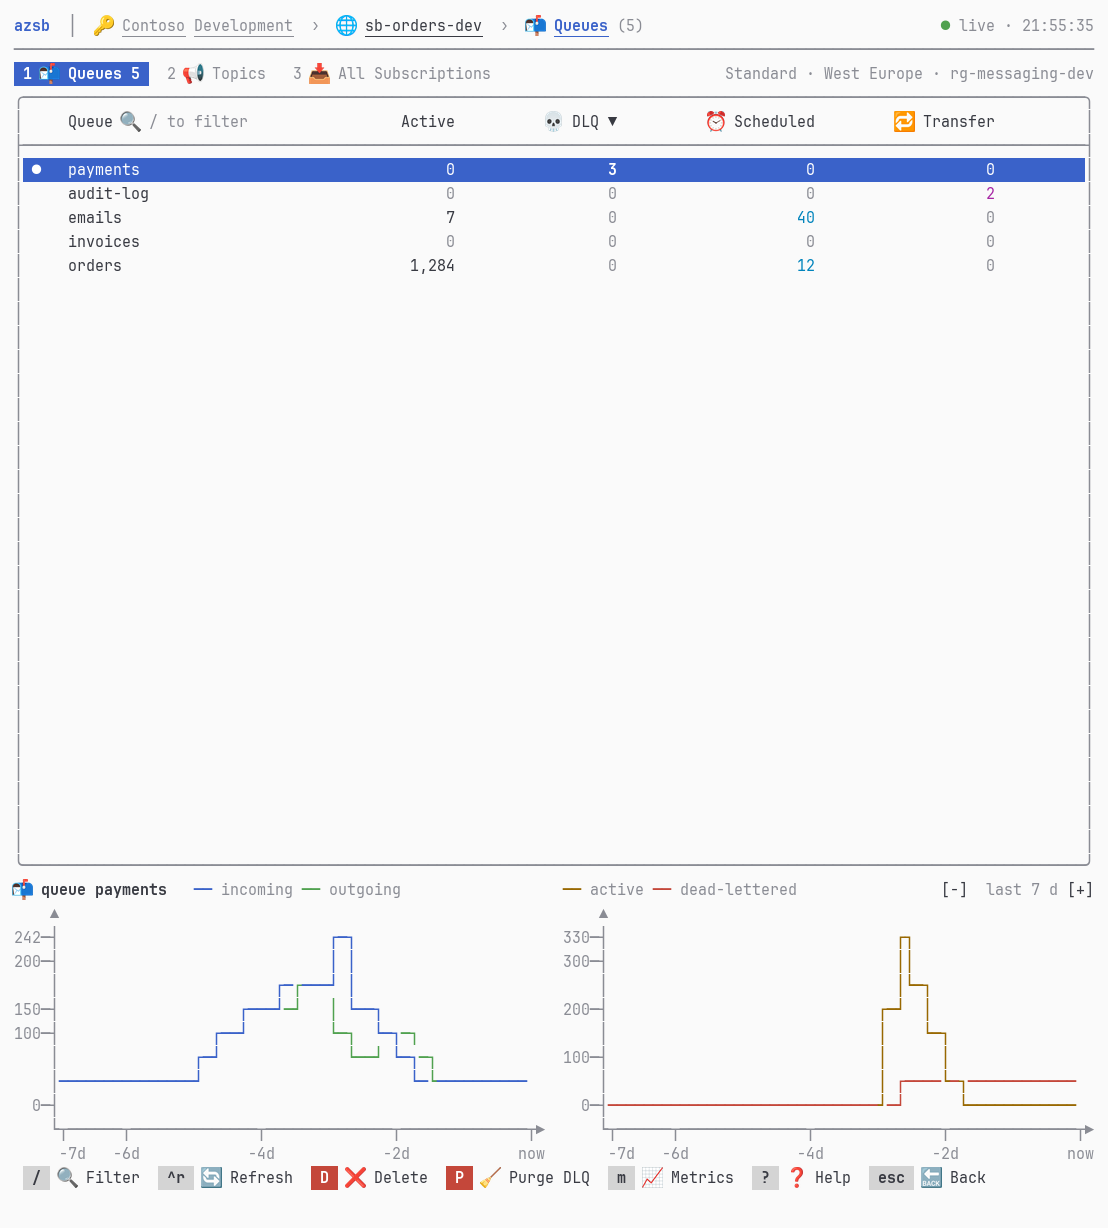
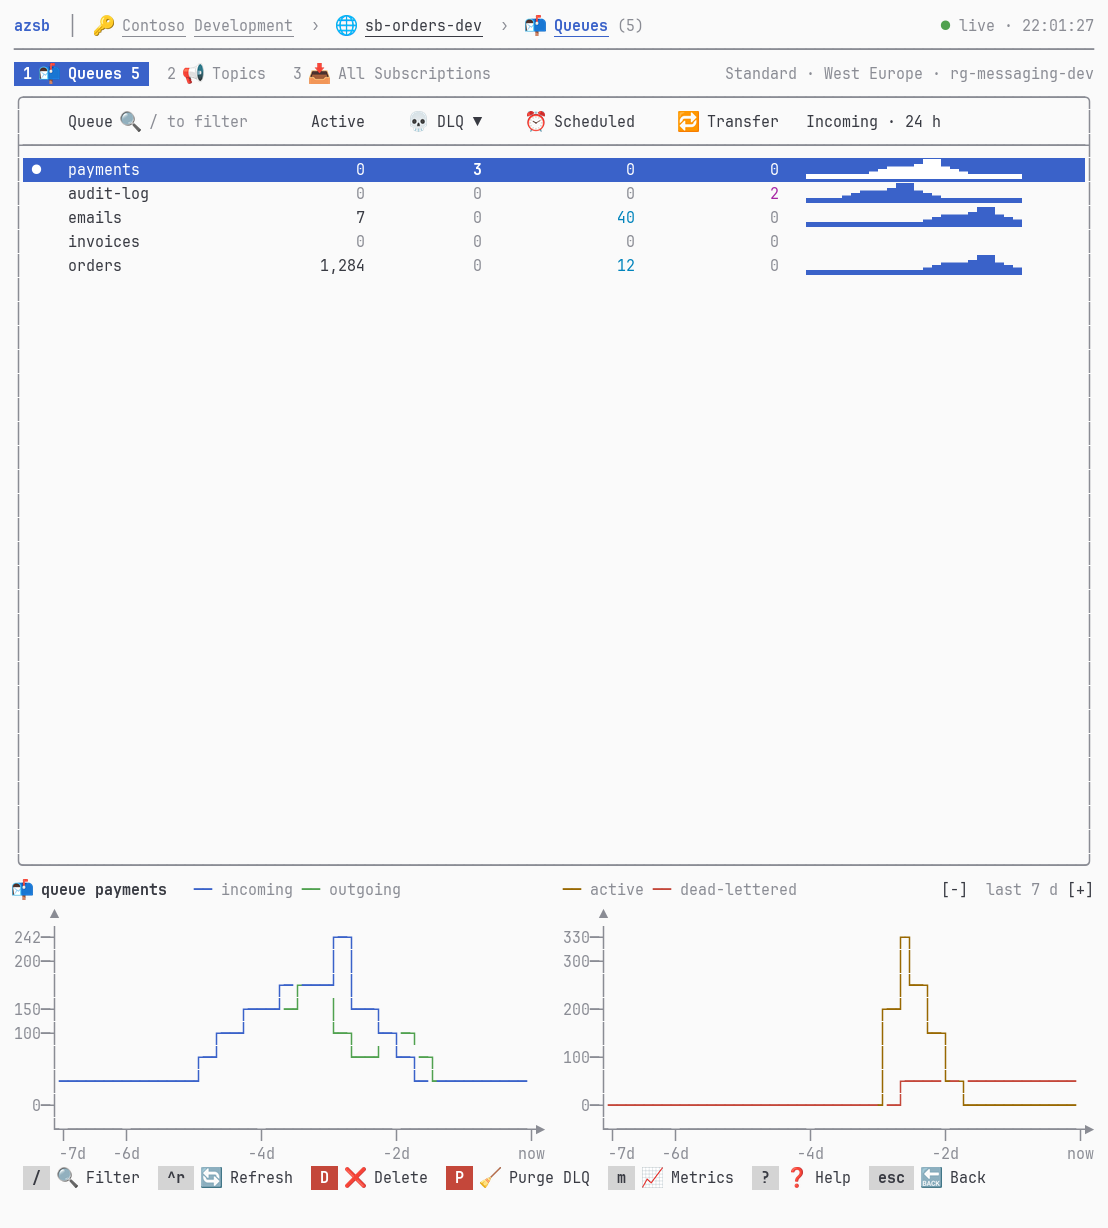
Incoming · 24 h sparkline column on the section lists
Part of #129. IMetricsService.GetIncomingByEntityAsync loads incoming
messages of every queue and topic in one Azure Monitor request
(IncomingMessages, EntityName eq '*', hourly, top 1000), cached like the
charts. IncomingTraffic reloads it every 5 minutes, separate from the
15 s counts, and the queue, topic and all-subscriptions lists draw a
Sparkline per row (subscriptions show their topic's). No column for the
emulator or under 110 columns.

Claude-Session: https://claude.ai/code/session_014zNgM4zMsC37xcnYsSUVjN

diff --git a/src/ServiceBusConsole.AzureServiceBus/MonitorMetrics.cs b/src/ServiceBusConsole.AzureServiceBus/MonitorMetrics.cs
@@ -24,6 +24,36 @@ internal static class MonitorMetrics
     public static string? Filter(MetricsScope scope) =>
         scope.Match<string?>(_ => null, entity => $"EntityName eq '{entity.Name}'");
 
+    /// <summary>Most entities a namespace lists traffic for; Azure Monitor returns 10 series unless asked for more.</summary>
+    public const int MaxEntities = 1000;
+
+    /// <summary>Incoming totals split by entity: <c>EntityName eq '*'</c> asks for one series per queue and topic.</summary>
+    public static ArmResourceGetMonitorMetricsOptions IncomingByEntity(MetricsWindow window) => new()
+    {
+        Timespan = $"{window.From.UtcDateTime:O}/{window.To.UtcDateTime:O}",
+        Interval = window.Interval,
+        Metricnames = Incoming,
+        Aggregation = "Total",
+        Filter = "EntityName eq '*'",
+        Top = MaxEntities,
+    };
+
+    /// <summary>Each series is one entity, named by its <c>EntityName</c> dimension; every interval of the window, 0 without data.</summary>
+    public static EntityTraffic ToEntityTraffic(MetricsWindow window, IEnumerable<MonitorMetric> metrics) => new()
+    {
+        Window = window,
+        Incoming = metrics
+            .Where(m => string.Equals(m.Name.Value, Incoming, StringComparison.OrdinalIgnoreCase))
+            .SelectMany(m => m.Timeseries)
+            .SelectMany(series => EntityOf(series) is { Length: > 0 } entity ? [(Entity: entity, Series: series)] : Array.Empty<(string Entity, MonitorTimeSeriesElement Series)>())
+            .GroupBy(e => e.Entity, StringComparer.OrdinalIgnoreCase)
+            .ToDictionary(g => g.Key, g => (IReadOnlyList<MetricPoint>)PointsOf(g.SelectMany(e => e.Series.Data), window, v => v.Total),
+                StringComparer.OrdinalIgnoreCase),
+    };
+
+    private static string? EntityOf(MonitorTimeSeriesElement series) =>
+        series.Metadatavalues.FirstOrDefault(v => string.Equals(v.Name?.Value, "EntityName", StringComparison.OrdinalIgnoreCase))?.Value;
+
     public static MessageMetrics ToMessageMetrics(MetricsWindow window, IEnumerable<MonitorMetric> metrics)
     {
         var byName = metrics.ToLookup(m => m.Name.Value, StringComparer.OrdinalIgnoreCase);
@@ -47,9 +77,12 @@ internal static class MonitorMetrics
     };
 
     // Every interval of the window, 0 where Azure reports nothing; several time series add up.
-    private static List<MetricPoint> Points(IEnumerable<MonitorMetric> metrics, MetricsWindow window, Func<MonitorMetricValue, double?> value)
+    private static List<MetricPoint> Points(IEnumerable<MonitorMetric> metrics, MetricsWindow window, Func<MonitorMetricValue, double?> value) =>
+        PointsOf(metrics.SelectMany(m => m.Timeseries).SelectMany(series => series.Data), window, value);
+
+    private static List<MetricPoint> PointsOf(IEnumerable<MonitorMetricValue> values, MetricsWindow window, Func<MonitorMetricValue, double?> value)
     {
-        var byInterval = metrics.SelectMany(m => m.Timeseries).SelectMany(series => series.Data).ToLookup(v => window.IntervalOf(v.TimeStamp));
+        var byInterval = values.ToLookup(v => window.IntervalOf(v.TimeStamp));
         return [.. window.IntervalStarts().Select(start => new MetricPoint(start, byInterval[start].Sum(v => value(v) ?? 0)))];
     }
 }

diff --git a/src/ServiceBusConsole/UI/IncomingTraffic.cs b/src/ServiceBusConsole/UI/IncomingTraffic.cs
@@ -1,0 +1,55 @@
+using Microsoft.Extensions.Logging;
+
+namespace ServiceBusConsole.UI;
+
+/// <summary>
+/// The last 24 hours of incoming messages per queue and topic, for a list page's sparkline column: cached first, then
+/// live, then reloaded every <see cref="LiveCountsOptions.TrafficInterval"/>. One Azure Monitor request per load,
+/// whatever the number of entities. Call from the page's dispatcher; <see cref="Changed"/> runs there too.
+/// </summary>
+public sealed class IncomingTraffic(IMetricsService metrics, LiveCountsOptions options, ILogger logger) : IDisposable
+{
+    public static readonly TimeSpan Span = TimeSpan.FromHours(24);
+    public static readonly TimeSpan Interval = TimeSpan.FromHours(1);
+
+    private readonly CancellationTokenSource _cts = new();
+
+    public EntityTraffic? Traffic { get; private set; }
+
+    /// <summary>Render; after each load.</summary>
+    public required Func<Task> Changed { get; init; }
+
+    public IReadOnlyList<MetricPoint> Of(string entity) => Traffic?.Of(entity) ?? [];
+
+    /// <summary>Loads, then keeps reloading until <see cref="Dispose"/>; a failed load keeps what was shown.</summary>
+    public async Task RunAsync()
+    {
+        var token = _cts.Token;
+        try
+        {
+            while (!token.IsCancellationRequested)
+            {
+                try
+                {
+                    await foreach (var traffic in metrics.GetIncomingByEntityAsync(MetricsWindow.Last(Span, Interval, DateTimeOffset.UtcNow), token))
+                    {
+                        Traffic = traffic;
+                        await Changed();
+                    }
+                }
+                catch (Exception ex) when (!token.IsCancellationRequested)
+                {
+                    logger.LogWarning(ex, "Loading incoming messages per entity failed; retrying");
+                }
+                await Task.Delay(options.TrafficInterval, token);
+            }
+        }
+        catch (OperationCanceledException) { }
+    }
+
+    public void Dispose()
+    {
+        _cts.Cancel();
+        _cts.Dispose();
+    }
+}

diff --git a/tests/ServiceBusConsole.AzureServiceBus.Tests/MonitorMetricsTests.cs b/tests/ServiceBusConsole.AzureServiceBus.Tests/MonitorMetricsTests.cs
@@ -69,4 +69,33 @@ public sealed class MonitorMetricsTests
                                  && q.Interval == TimeSpan.FromMinutes(15)
                                  && q.Filter == "EntityName eq 'orders'");
     }
+
+    [Test]
+    public void IncomingByEntity_AsksForEverySeriesOfEntityName_InOneQuery()
+    {
+        var query = MonitorMetrics.IncomingByEntity(Hour);
+
+        query.Metricnames.ShouldBe("IncomingMessages");
+        query.Aggregation.ShouldBe("Total");
+        query.Filter.ShouldBe("EntityName eq '*'");
+        query.Top.ShouldBe(MonitorMetrics.MaxEntities);
+        query.Interval.ShouldBe(TimeSpan.FromMinutes(15));
+    }
+
+    [Test]
+    public void ToEntityTraffic_KeysEachSeriesByItsEntityName_IgnoringCase()
+    {
+        MonitorTimeSeriesElement Series(string entity, params MonitorMetricValue[] values) => ArmMonitorModelFactory.MonitorTimeSeriesElement(
+            [ArmMonitorModelFactory.MonitorMetadataValue(ArmMonitorModelFactory.MonitorLocalizableString("entityname", "EntityName"), entity)], values);
+        var metric = ArmMonitorModelFactory.MonitorMetric(
+            id: "/metrics/IncomingMessages", metricType: "Microsoft.Insights/metrics", name: ArmMonitorModelFactory.MonitorLocalizableString("IncomingMessages", "IncomingMessages"),
+            displayDescription: "", errorCode: "Success", errorMessage: null, unit: MonitorMetricUnit.Count,
+            timeseries: [Series("orders", Value(0, total: 4), Value(30, total: 2)), Series("payments", Value(15, total: 7))]);
+
+        var traffic = MonitorMetrics.ToEntityTraffic(Hour, [metric]);
+
+        traffic.Of("Orders").Select(p => p.Value).ShouldBe([4, 0, 2, 0]);
+        traffic.Of("payments").Select(p => p.Value).ShouldBe([0, 7, 0, 0]);
+        traffic.Of("invoices").ShouldBeEmpty();
+    }
 }

diff --git a/tests/ServiceBusConsole.Tests/QueueListPageTests.cs b/tests/ServiceBusConsole.Tests/QueueListPageTests.cs
@@ -130,6 +130,32 @@ public sealed class QueueListPageTests
     }
 
     [Test]
+    public async Task IncomingSparklines_OneRequestForAllQueues_NoneForTheEmulator()
+    {
+        var app = WithQueues();
+        app.Metrics.TrafficEntities.AddRange(["payments", "orders"]);
+        await using var terminal = await app.OpenAzureAsync(ConsoleKey.F1);
+
+        static string Row(TerminalFrame f, string queue) =>
+            Enumerable.Range(0, f.Height).Select(f.GetLine).First(l => l.StartsWith('│') && l.Contains($" {queue} "));
+        var frame = await terminal.WaitUntilAsync(f => f.ContainsText("Queues (3)") && Row(f, "payments").Contains('█'),
+            AppHarness.Timeout, cancellationToken: Ct);
+        Row(frame, "orders").ShouldContain("█");
+        Row(frame, "emails").ShouldNotContain("▁");
+        app.Metrics.TrafficLoads.ShouldBe(1);
+
+        await using var emulator = await WithQueues().OpenQueuesAsync();
+        (await emulator.WaitForTextAsync("Queues (3)", AppHarness.Timeout, Ct)).ContainsText("Incoming · 24 h").ShouldBeFalse();
+    }
+
+    [Test]
+    public void Sparkline_ScalesToTheHighest_ZeroIsTheLowestBlock()
+    {
+        ServiceBusConsole.Components.Sparkline.Of([0, 5, 10]).ShouldBe("▁▅█");
+        ServiceBusConsole.Components.Sparkline.Of([0, 0]).ShouldBe("▁▁");
+    }
+
+    [Test]
     public async Task TypingFiltersTheList()
     {
         await using var terminal = await WithQueues().OpenQueuesAsync();

diff --git a/tests/ServiceBusConsole.Tests/Fakes.cs b/tests/ServiceBusConsole.Tests/Fakes.cs
@@ -70,6 +70,27 @@ public sealed class FakeMetricsService : IMetricsService
         yield return Sample(window, scope.Match(_ => 12, e => 1 + e.Name.Length % 4));
     }
 
+    /// <summary>The entities <see cref="GetIncomingByEntityAsync"/> reports traffic for; each load is counted.</summary>
+    public List<string> TrafficEntities { get; } = [];
+    public int TrafficLoads => _trafficLoads;
+    private int _trafficLoads;
+
+    public async IAsyncEnumerable<EntityTraffic> GetIncomingByEntityAsync(MetricsWindow window, [EnumeratorCancellation] CancellationToken ct = default)
+    {
+        Interlocked.Increment(ref _trafficLoads);
+        await Task.Yield();
+        if (LoadError is not null) throw LoadError;
+        yield return new()
+        {
+            Window = window,
+            Incoming = TrafficEntities.ToDictionary(e => e, e => Shifted(Sample(window, 1).Incoming, e.Length * 3), StringComparer.OrdinalIgnoreCase),
+        };
+    }
+
+    // The sample day moved by some intervals, so the entities' sparklines differ.
+    private static IReadOnlyList<MetricPoint> Shifted(IReadOnlyList<MetricPoint> points, int by) =>
+        [.. points.Select((p, i) => p with { Value = points[(i + by) % points.Count].Value })];
+
     /// <summary>
     /// Traffic over 96 steps, whatever the window's intervals: a busy daytime, a backlog that builds while consumers lag,
     /// then drains, and a few dead letters.

diff --git a/src/ServiceBusConsole.AzureServiceBus/MetricsService.cs b/src/ServiceBusConsole.AzureServiceBus/MetricsService.cs
@@ -22,4 +22,16 @@ internal sealed class MetricsService(NamespaceInfo ns, ArmClient armClient, ILog
             throw new InvalidOperationException(failed.ErrorMessage ?? failed.ErrorCode);
         yield return MonitorMetrics.ToMessageMetrics(window, metrics);
     }
+
+    public async IAsyncEnumerable<EntityTraffic> GetIncomingByEntityAsync(MetricsWindow window, [EnumeratorCancellation] CancellationToken ct = default)
+    {
+        var resource = new ResourceIdentifier(ns.ResourceId
+            ?? throw new InvalidOperationException("Resource ID of the namespace unknown; reopen it from the connection page."));
+
+        logger.LogInformation("Loading incoming messages per entity in {Namespace}", ns.Name);
+        var metrics = await armClient.GetMonitorMetricsAsync(resource, MonitorMetrics.IncomingByEntity(window), ct).ToListAsync(ct);
+        if (metrics.FirstOrDefault(m => m.ErrorCode is { } code && code != "Success") is { } failed)
+            throw new InvalidOperationException(failed.ErrorMessage ?? failed.ErrorCode);
+        yield return MonitorMetrics.ToEntityTraffic(window, metrics);
+    }
 }

diff --git a/src/ServiceBusConsole.Abstractions/EntityTraffic.cs b/src/ServiceBusConsole.Abstractions/EntityTraffic.cs
@@ -1,0 +1,18 @@
+namespace ServiceBusConsole.Abstractions;
+
+/// <summary>Incoming messages per interval of every queue and topic of a namespace over a <see cref="MetricsWindow"/>.</summary>
+public sealed record EntityTraffic
+{
+    public required MetricsWindow Window { get; init; }
+
+    /// <summary>By entity name; entities without any traffic may be missing.</summary>
+    public required IReadOnlyDictionary<string, IReadOnlyList<MetricPoint>> Incoming { get; init; }
+
+    /// <summary>From the cache, while the live traffic is still on its way.</summary>
+    public bool IsRefreshing { get; init; }
+
+    /// <summary>The entity's points, matched ignoring case (Azure Monitor lower-cases names); none when unknown.</summary>
+    public IReadOnlyList<MetricPoint> Of(string entity) =>
+        Incoming.TryGetValue(entity, out var points) ? points
+        : Incoming.FirstOrDefault(e => string.Equals(e.Key, entity, StringComparison.OrdinalIgnoreCase)).Value ?? [];
+}

diff --git a/src/ServiceBusConsole/Services/Caching/CacheKeys.cs b/src/ServiceBusConsole/Services/Caching/CacheKeys.cs
@@ -10,6 +10,9 @@ public static class CacheKeys
     public static string AllSubscriptions(NamespaceInfo ns) => $"{ns.FullyQualifiedNamespace}/all-subscriptions.json";
     public static string Subscriptions(NamespaceInfo ns, string topicName) => $"{ns.FullyQualifiedNamespace}/topics/{topicName}/subscriptions.json";
 
+    public static string IncomingByEntity(NamespaceInfo ns, MetricsWindow window) =>
+        $"{ns.FullyQualifiedNamespace}/metrics/incoming-by-entity/{XmlConvert.ToString(window.To - window.From)}-{XmlConvert.ToString(window.Interval)}.json";
+
     // Spans and intervals in ISO 8601, as Azure Monitor names its grains: P1D, PT30M.
     public static string Metrics(NamespaceInfo ns, MetricsScope scope, MetricsWindow window) =>
         $"{ns.FullyQualifiedNamespace}/metrics/{scope.Match(_ => "namespace", e => $"entities/{e.Name}")}/"

diff --git a/src/ServiceBusConsole/Services/Caching/CachingMetricsService.cs b/src/ServiceBusConsole/Services/Caching/CachingMetricsService.cs
@@ -17,4 +17,17 @@ public sealed class CachingMetricsService(IMetricsService inner, NamespaceInfo n
             yield return live;
         }
     }
+
+    public async IAsyncEnumerable<EntityTraffic> GetIncomingByEntityAsync(MetricsWindow window, [EnumeratorCancellation] CancellationToken ct = default)
+    {
+        var key = CacheKeys.IncomingByEntity(ns, window);
+        if (await cache.LoadAsync<EntityTraffic>(key) is [var cached])
+            yield return cached with { IsRefreshing = true };
+
+        await foreach (var live in inner.GetIncomingByEntityAsync(window, ct))
+        {
+            _ = cache.SaveAsync(key, [live]);
+            yield return live;
+        }
+    }
 }

diff --git a/tests/ServiceBusConsole.AzureServiceBus.Tests/NamespaceOpenerTests.cs b/tests/ServiceBusConsole.AzureServiceBus.Tests/NamespaceOpenerTests.cs
@@ -86,6 +86,9 @@ public sealed class NamespaceOpenerTests
         {
             public IAsyncEnumerable<MessageMetrics> GetMetricsAsync(MetricsScope scope, MetricsWindow window, CancellationToken ct = default) =>
                 inner.GetMetricsAsync(scope, window, ct);
+
+            public IAsyncEnumerable<EntityTraffic> GetIncomingByEntityAsync(MetricsWindow window, CancellationToken ct = default) =>
+                inner.GetIncomingByEntityAsync(window, ct);
         }
 
         public sealed class Deletion(IDeletionService inner) : IDeletionService

diff --git a/src/ServiceBusConsole.Abstractions/IMetricsService.cs b/src/ServiceBusConsole.Abstractions/IMetricsService.cs
@@ -5,4 +5,7 @@ public interface IMetricsService
 {
     /// <summary>Throughput and backlog of <paramref name="scope"/> over <paramref name="window"/>, intervals without data as 0.</summary>
     IAsyncEnumerable<MessageMetrics> GetMetricsAsync(MetricsScope scope, MetricsWindow window, CancellationToken ct = default);
+
+    /// <summary>Incoming messages of every queue and topic over <paramref name="window"/>, in one request.</summary>
+    IAsyncEnumerable<EntityTraffic> GetIncomingByEntityAsync(MetricsWindow window, CancellationToken ct = default);
 }

diff --git a/tests/ServiceBusConsole.Tests/Screenshots.cs b/tests/ServiceBusConsole.Tests/Screenshots.cs
@@ -183,6 +183,7 @@ public sealed class Screenshots
             new QueueInfo { Name = "audit-log", TransferMessageCount = 2 },
             new QueueInfo { Name = "invoices" },
         ]);
+        app.Metrics.TrafficEntities.AddRange(["payments", "orders", "emails", "audit-log", "order-events", "notifications"]);
         app.Topics.Topics.AddRange(
         [
             new TopicInfo { Name = "order-events", SubscriptionCount = 3 },
